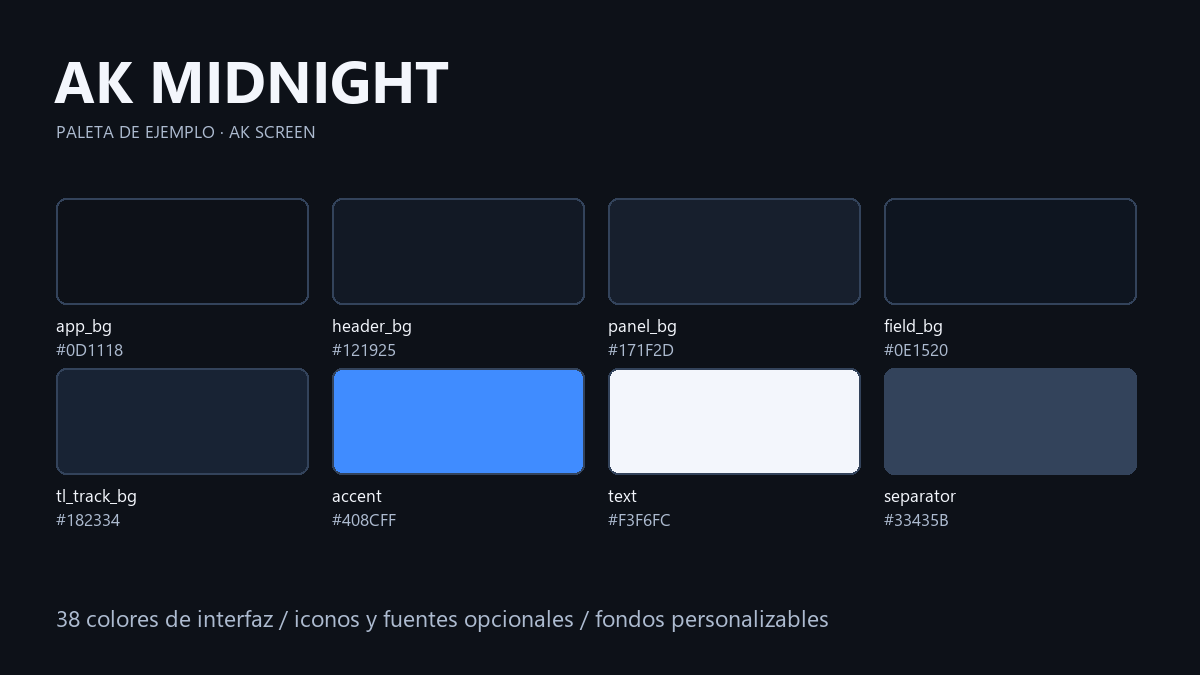
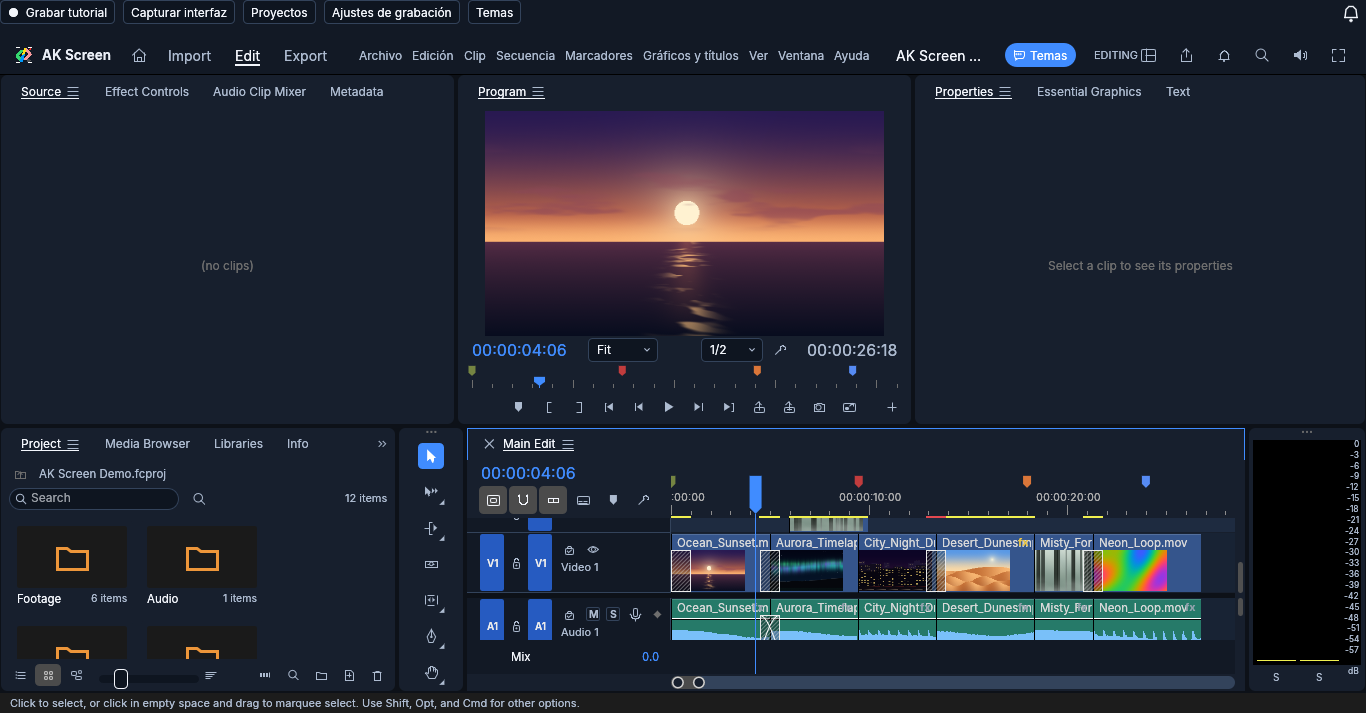
Show real native editor and startup previews

diff --git a/README.md b/README.md
@@ -13,6 +13,10 @@ Temas comunitarios revisados para **AK Screen**. Cada autor conserva sus paquete
 
 También incluimos **AK Midnight**, una plantilla nativa con los 38 colores del editor y medidas configurables.
 
+Las vistas previas muestran capturas reales de AK Screen 2.1 con contenido de demostración. La pantalla de carga también puede personalizarse:
+
+![Pantalla de carga real con Sakura Pulse](themes/edgajuman/sakura-pulse/splash-preview.png)
+
 ## Instalar
 
 En AK Screen 2.1 o posterior: **Temas → Catálogo → Actualizar → Instalar y aplicar**. Puedes ver la imagen de vista previa antes de instalar. La app instala el paquete completo en la carpeta local de temas que tenga configurada cada usuario, conserva sus componentes y verifica tamaño y SHA-256. La ubicación se obtiene de la carpeta Documentos del usuario que ejecuta la app en su propio equipo; nunca se usa la ruta personal del creador. Puedes cambiarla desde Configuración. Los temas instalados funcionan sin conexión.

diff --git a/themes/edgajuman/ak-midnight/info.md b/themes/edgajuman/ak-midnight/info.md
@@ -1,5 +1,5 @@
 # AK Midnight
 
-Tema nativo de ejemplo para AK Screen 2.1+. La vista previa es una representación de la paleta, no una captura del editor.
+Tema nativo de ejemplo para AK Screen 2.1+. La vista previa muestra el editor real con contenido de demostración generado por la aplicación.
 
-Autor: Edgajuman. Colores, plantilla y preview original generada por código. Licencia MIT; consulta LICENSE.txt.
+Autor: Edgajuman. Colores y plantilla originales; licencia MIT, consulta LICENSE.txt. La captura incluye la interfaz y el contenido procedimental del editor, bajo MIT / Apache-2.0, y la marca AK Screen autorizada por su propietario.
